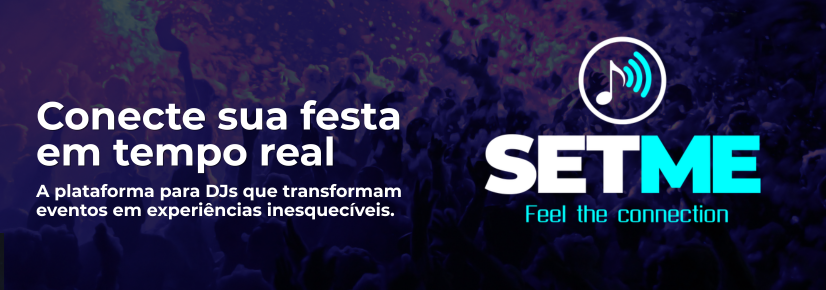
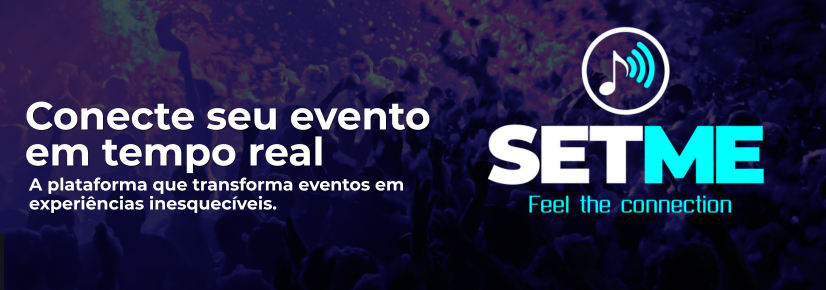
Bump version to 1.1.4, fix MSIX package name to Exder.TriDJsStems, update setme.png

Changed region(s): [[0.5751, 0.0931, 0.9383, 0.7759], [0.0303, 0.3414, 0.5448, 0.7448]]

diff --git a/Source/UpdateChecker.h b/Source/UpdateChecker.h
@@ -6,7 +6,7 @@
 #define UPDATE_CHECK_URL "https://raw.githubusercontent.com/djexder/Stems-TriDJS/main/version.json"
 
 // Versão atual do software
-#define APP_VERSION "1.1.3"
+#define APP_VERSION "1.1.4"
 
 class UpdateChecker : public juce::Thread
 {
